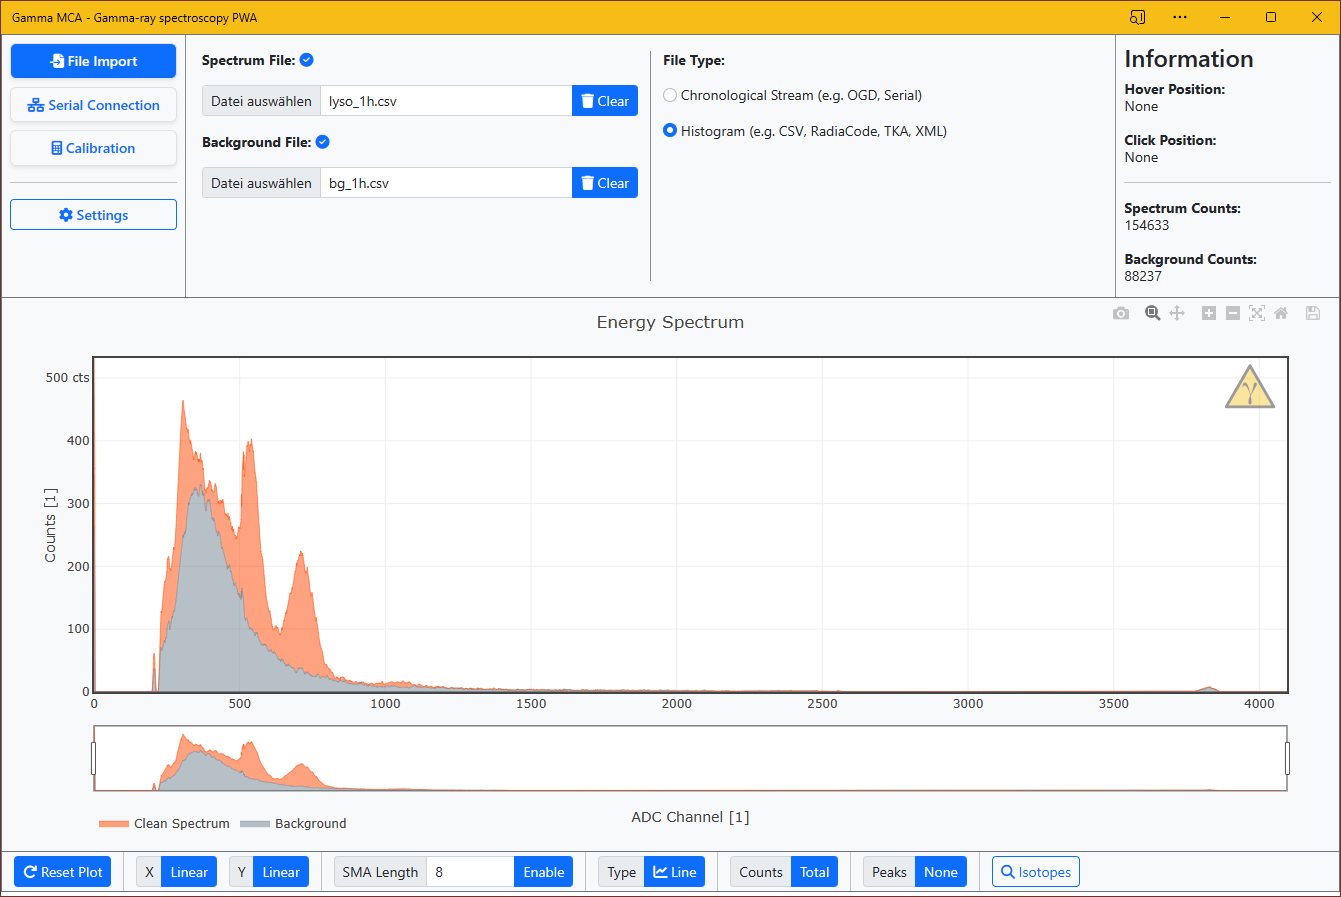
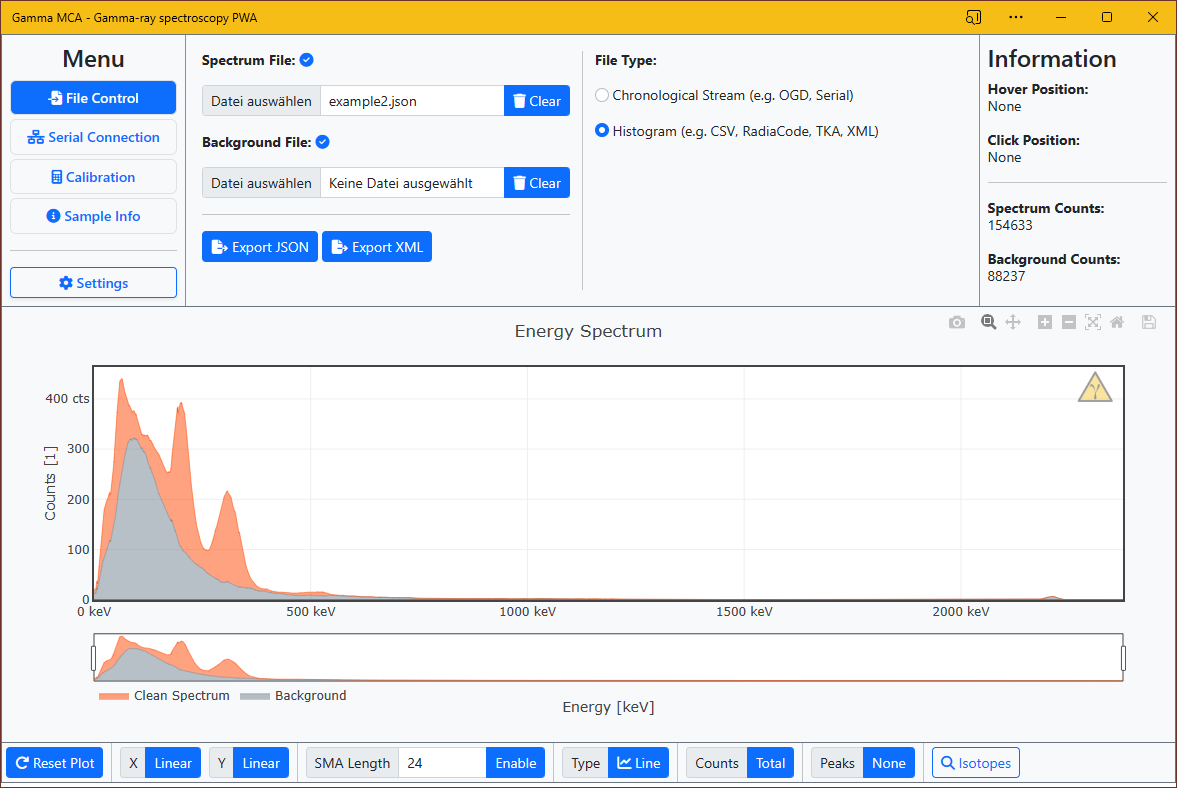
update screenshot

diff --git a/README.md b/README.md
@@ -4,7 +4,7 @@
 
 Progressive web application for gamma spectroscopy including file and live plot support via the serial interface.
 
-![example spectrum](/assets/screenshots/pwa.PNG)
+![example spectrum](/assets/screenshots/file.PNG)
 
 Built using [Bootstrap](https://github.com/twbs/bootstrap), [Plotly.js](https://github.com/plotly/plotly.js), [Font Awesome](https://github.com/FortAwesome/Font-Awesome) and [z-schema](https://github.com/zaggino/z-schema).
 
